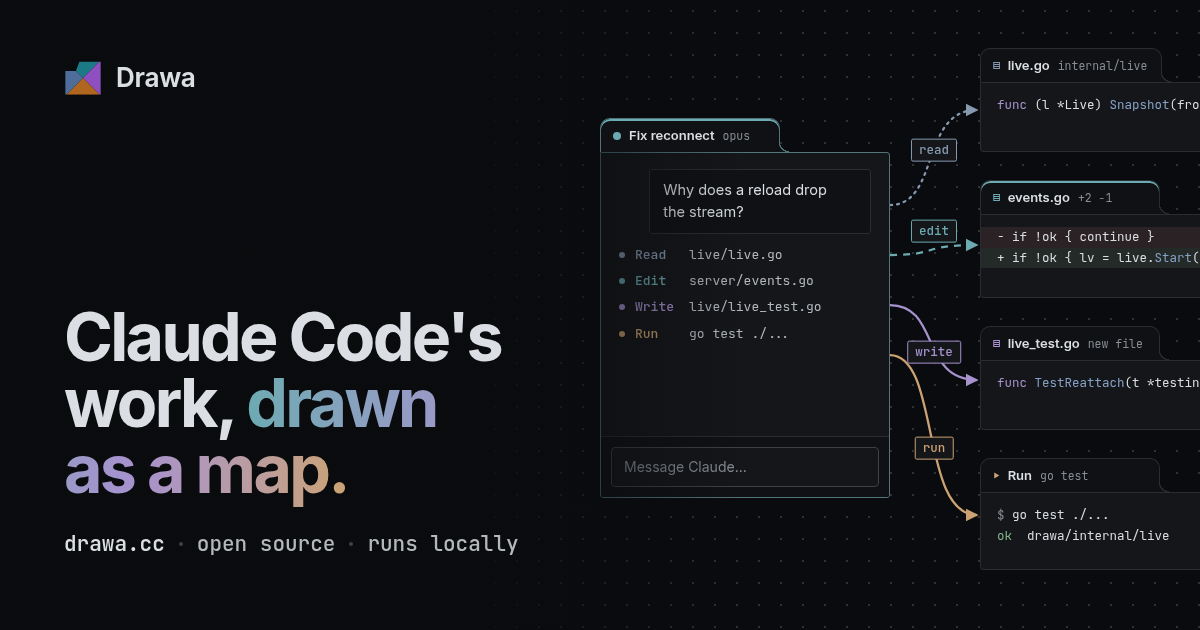
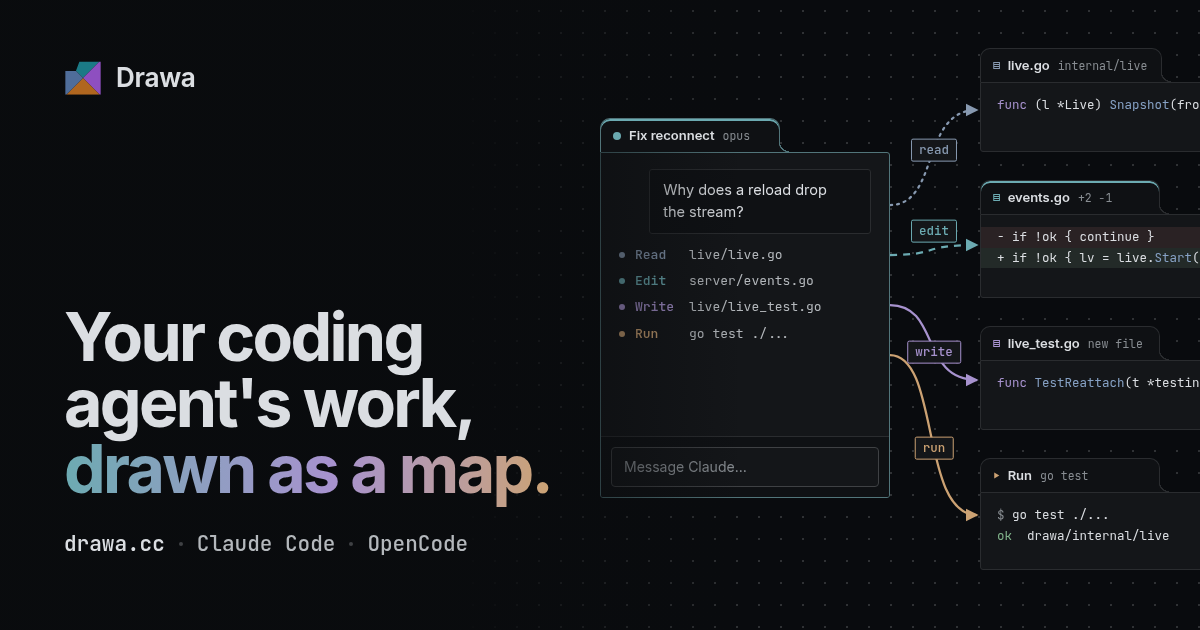
Position Drawa for coding agents, not only Claude Code
Drawa runs Claude Code or OpenCode, and more agents are planned, but the
title, meta and Open Graph tags, hero and link preview all said Claude
Code only. The headline is now "Your coding agent's work, drawn as a
map", and the copy names the agents that work today. Lines about
Claude-specific behaviour (the canvas tools, the Claude subscription
note) and the demo session are unchanged.

Changed region(s): [[0.0308, 0.4825, 0.4625, 0.8143], [0.3083, 0.8444, 0.4317, 0.8746], [0.1542, 0.8444, 0.2775, 0.8746]]

diff --git a/index.html b/index.html
@@ -2,16 +2,16 @@
 <html lang="en">
 <meta charset="utf-8">
 <meta name="viewport" content="width=device-width,initial-scale=1">
-<title>Drawa: a canvas workspace for Claude Code</title>
-<meta name="description" content="Drawa lays out Claude Code's work as a map. Run several sessions side by side, see every file they read, edit and run wired to the session that touched it, and review each change in one click. Runs on your machine.">
-<meta property="og:title" content="Drawa: Claude Code's work, drawn as a map">
-<meta property="og:description" content="A canvas workspace for Claude Code. Parallel sessions, live file maps, diffs everywhere. Runs on your machine.">
+<title>Drawa: a canvas workspace for coding agents</title>
+<meta name="description" content="Drawa lays out your coding agent's work as a map. Run Claude Code or OpenCode sessions side by side, see every file they read, edit and run wired to the session that touched it, and review each change in one click. Runs on your machine.">
+<meta property="og:title" content="Drawa: your coding agent's work, drawn as a map">
+<meta property="og:description" content="A canvas workspace for Claude Code and OpenCode. Parallel sessions, live file maps, diffs everywhere. Runs on your machine.">
 <meta property="og:type" content="website">
 <meta property="og:url" content="https://drawa.cc/">
 <meta property="og:image" content="https://drawa.cc/og.png">
 <meta property="og:image:width" content="1200">
 <meta property="og:image:height" content="630">
-<meta property="og:image:alt" content="Drawa: a Claude Code session card wired by colored edges to the files it read, edited and wrote, and the tests it ran.">
+<meta property="og:image:alt" content="Drawa: an agent session card wired by colored edges to the files it read, edited and wrote, and the tests it ran.">
 <meta name="twitter:card" content="summary_large_image">
 <meta name="theme-color" content="#f5f6f8" media="(prefers-color-scheme: light)">
 <meta name="theme-color" content="#1a1c1f" media="(prefers-color-scheme: dark)">
@@ -44,8 +44,8 @@
 <main id="main">
   <section class="hero" aria-labelledby="hero-t">
     <div class="wrap hero-copy">
-      <h1 id="hero-t">Claude Code's work, drawn as a&nbsp;map.</h1>
-      <p class="lede">Drawa is a canvas workspace for the Claude Code CLI. Run several sessions side by side, watch every file they read, edit and run appear wired to the session that touched it, and open any change in one click. It all runs on your machine.</p>
+      <h1 id="hero-t">Your coding agent's work, drawn as a&nbsp;map.</h1>
+      <p class="lede">Drawa is a canvas workspace for coding agents, starting with Claude Code and OpenCode. Run several sessions side by side, watch every file they read, edit and run appear wired to the session that touched it, and open any change in one click. It all runs on your machine.</p>
       <div class="cta">
         <div class="cmd" data-copy="curl -fsSL https://raw.githubusercontent.com/probablysamir/drawa/main/install.sh | sh">
           <code><span class="pr" aria-hidden="true">$</span> curl -fsSL https://raw.githubusercontent.com/probablysamir/drawa/main/install.sh | sh</code>
@@ -116,9 +116,9 @@
 
   <section class="verbs wrap" aria-labelledby="verbs-t">
     <h2 id="verbs-t">Four colors, and each one means something.</h2>
-    <p class="sub">Everything else on the canvas stays neutral, so what Claude did is readable from across the room.</p>
+    <p class="sub">Everything else on the canvas stays neutral, so what the agent did is readable from across the room.</p>
     <ol class="verb-list">
-      <li class="read"><svg viewBox="0 0 120 12" aria-hidden="true"><path d="M2 6h108"/><path class="hd" d="M108 1l9 5-9 5z"/></svg><b>Read</b><span>Files Claude opened to understand the problem. Dotted, because nothing changed.</span></li>
+      <li class="read"><svg viewBox="0 0 120 12" aria-hidden="true"><path d="M2 6h108"/><path class="hd" d="M108 1l9 5-9 5z"/></svg><b>Read</b><span>Files the agent opened to understand the problem. Dotted, because nothing changed.</span></li>
       <li class="edit"><svg viewBox="0 0 120 12" aria-hidden="true"><path d="M2 6h108"/><path class="hd" d="M108 1l9 5-9 5z"/></svg><b>Edit</b><span>Files it changed. Click one for the diff, from every session that touched it.</span></li>
       <li class="write"><svg viewBox="0 0 120 12" aria-hidden="true"><path d="M2 6h108"/><path class="hd" d="M108 1l9 5-9 5z"/></svg><b>Write</b><span>Files it created from nothing, like the test that proves the fix.</span></li>
       <li class="run"><svg viewBox="0 0 120 12" aria-hidden="true"><path d="M2 6h108"/><path class="hd" d="M108 1l9 5-9 5z"/></svg><b>Run</b><span>Commands it ran, collected beside the card with their output.</span></li>
@@ -134,7 +134,7 @@
       <article class="win f-par" data-kind="session">
         <div class="win-h"><h3 class="t" data-glyph="●">Parallel sessions</h3></div>
         <div class="win-b">
-          <p>Each card is its own live Claude process. Type any time: messages queue while Claude or its sub-agents work.</p>
+          <p>Each card is its own live agent process. Type any time: messages queue while the agent or its sub-agents work.</p>
           <ul class="mini-cards" aria-label="Example sessions">
             <li data-state="busy"><span class="dot"></span>Fix reconnect<em>working</em></li>
             <li data-state="asking"><span class="dot"></span>Migrate settings<em>needs approval</em></li>
@@ -176,7 +176,7 @@
       <article class="win f-git" data-kind="git">
         <div class="win-h"><h3 class="t" data-glyph="⎇">Git and GitHub built in</h3></div>
         <div class="win-b">
-          <p>Browse status and history, commit and push. Open pull requests and issues through <code>gh</code>, and send a PR, its failing checks or its reviews straight to Claude.</p>
+          <p>Browse status and history, commit and push. Open pull requests and issues through <code>gh</code>, and send a PR, its failing checks or its reviews straight to a session.</p>
         </div>
       </article>
 
@@ -199,8 +199,8 @@
 
   <section id="local" class="local wrap" aria-labelledby="local-t">
     <div class="local-copy">
-      <h2 id="local-t">Runs on your machine, with the Claude you already set up.</h2>
-      <p class="sub">Drawa is one binary. It drives the <code>claude</code> CLI on your PATH with your login, settings, skills and MCP servers, and serves the page on <code>127.0.0.1</code>.</p>
+      <h2 id="local-t">Runs on your machine, with the agent you already set up.</h2>
+      <p class="sub">Drawa is one binary. It drives the <code>claude</code> or <code>opencode</code> CLI on your PATH with your login, settings, skills and MCP servers, and serves the page on <code>127.0.0.1</code>.</p>
       <ul class="facts">
         <li><b>Stays local.</b> The server checks <code>Host</code> and <code>Origin</code> on every request, and file access stays inside the folder you opened.</li>
         <li><b>Reach it from your phone.</b> <code>drawa --net</code> prints a network link with a one-time token and a QR code.</li>

diff --git a/og.html b/og.html
@@ -32,8 +32,8 @@
 <div class="veil"></div>
 <div class="words">
   <div class="brand"><i></i>Drawa</div>
-  <h1>Claude Code's work, <em>drawn as a&nbsp;map.</em></h1>
-  <p class="url"><b>drawa.cc</b><span></span>open source<span></span>runs locally</p>
+  <h1>Your coding agent's work, <em>drawn as a&nbsp;map.</em></h1>
+  <p class="url"><b>drawa.cc</b><span></span>Claude Code<span></span>OpenCode</p>
 </div>
 
 <div class="map">
